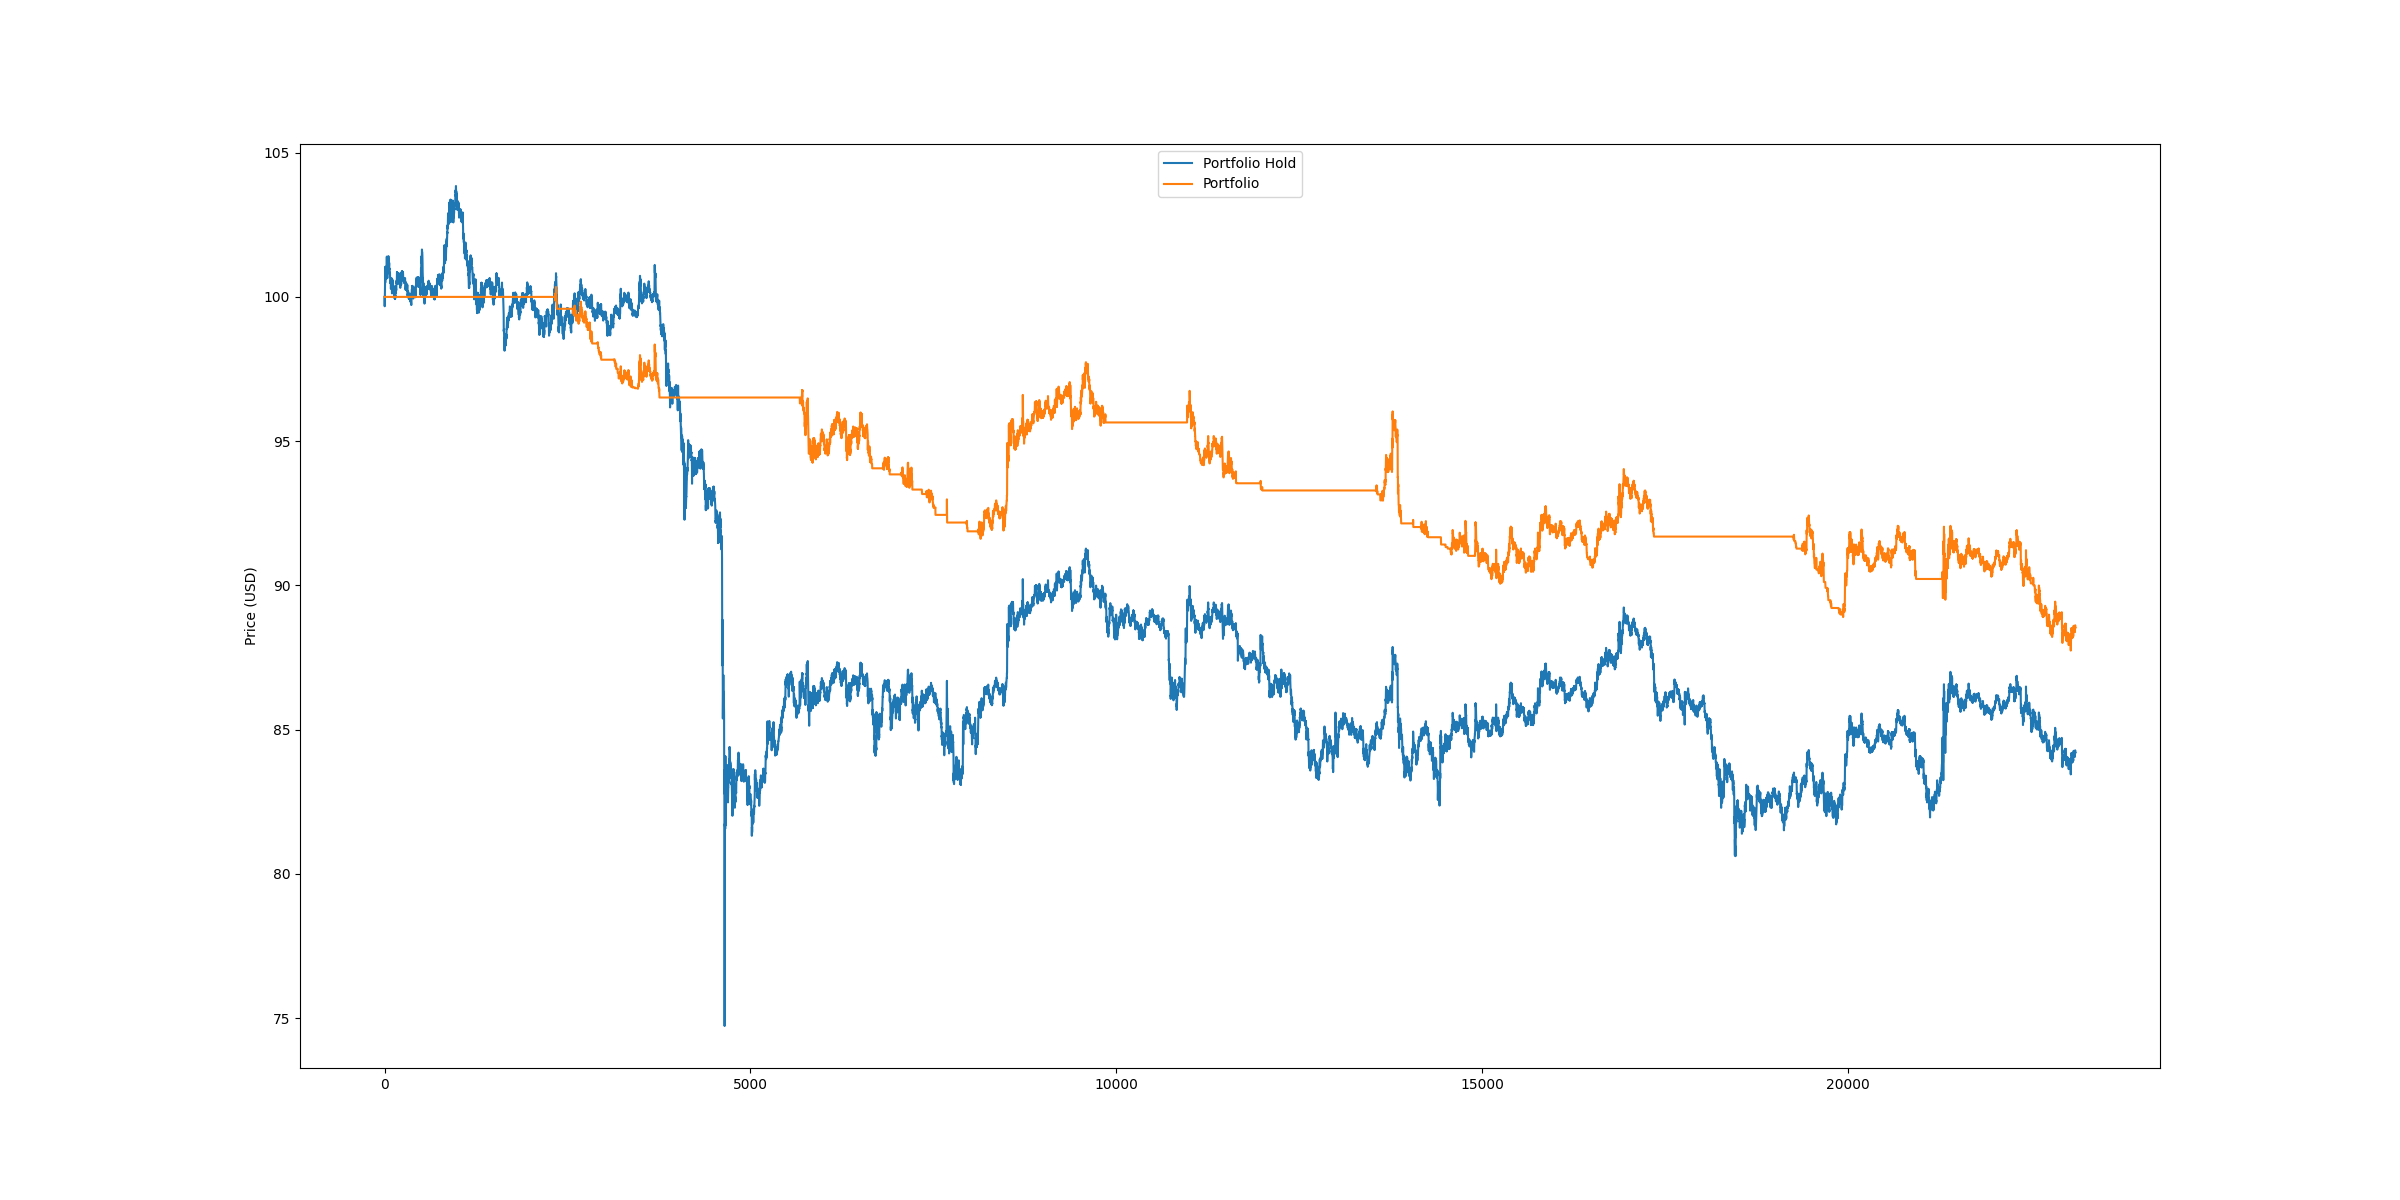
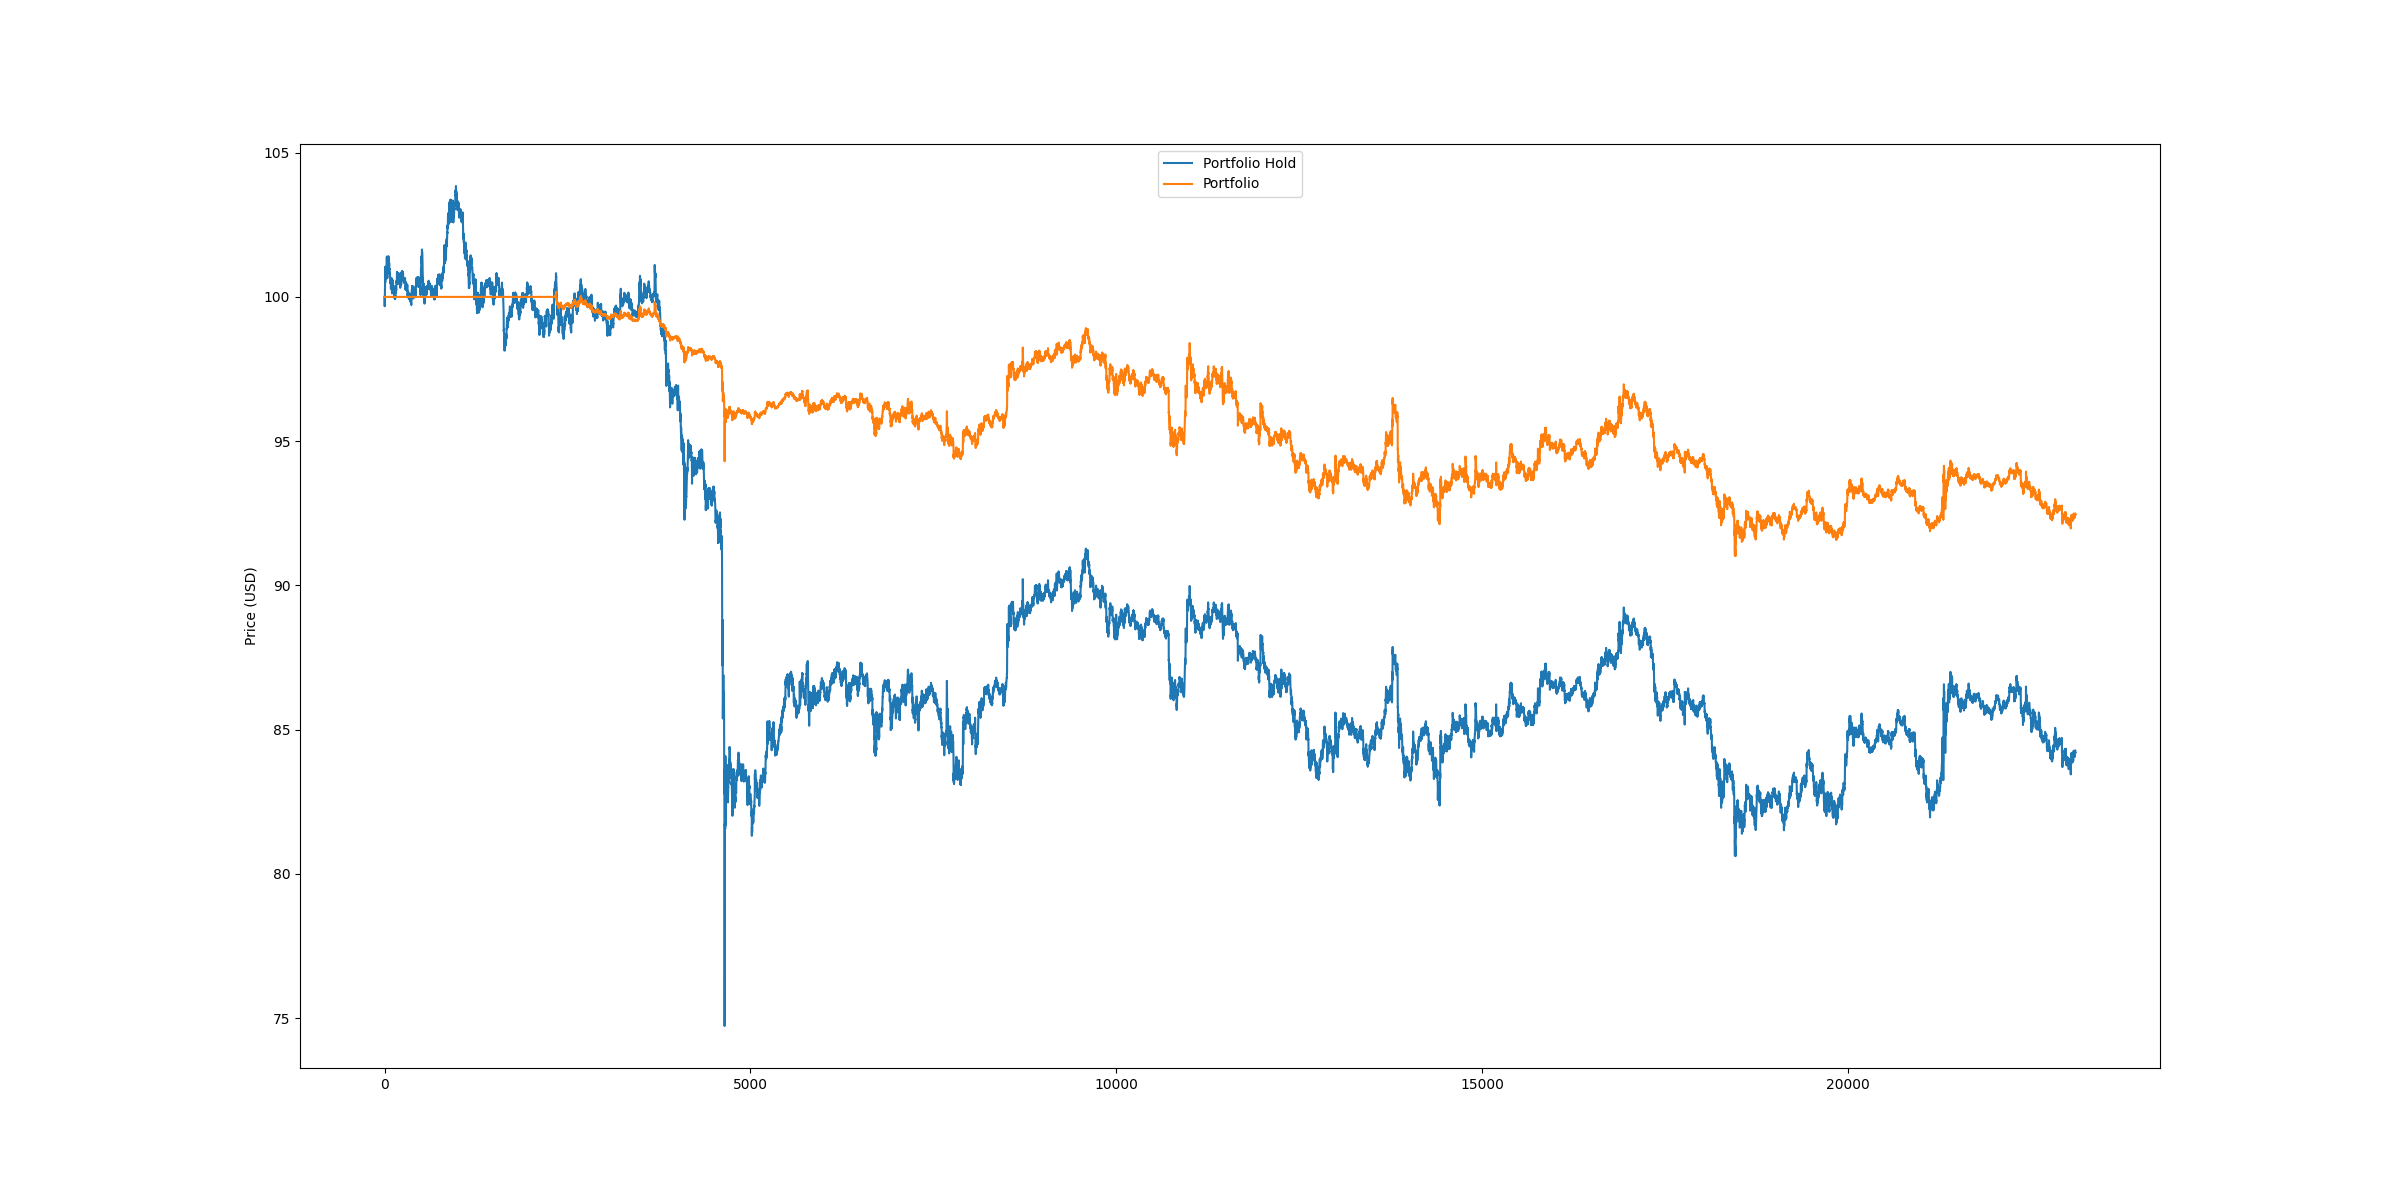
equity per trade working

diff --git a/src/backtest.py b/src/backtest.py
@@ -73,18 +73,18 @@ def run_backtest(strat, port, df):
                 port.get_fiat_quantity() - (action.quantity * price))
             port.set_coin_quantity(
                 port.get_coin_quantity() + action.quantity)
-        elif action.signal == 'SELL':
+        elif action.signal == 'SELL' and port.get_coin_quantity() >= action.quantity:
             port.set_fiat_quantity(
                 port.get_fiat_quantity() + (action.quantity * price))
             port.set_coin_quantity(
-                port.get_fiat_quantity() - action.quantity
+                port.get_coin_quantity() - action.quantity
             )
 
-        portfolio.append(port.get_value_in_fiat())
+        portfolio.append(port.get_value_in_fiat(coin_price=price))
         portfolio_hold.append(start_coin * price)
 
         print(f'price: {price} action: {action}')
-        print(f'{port.get_fiat()}: {port.get_fiat_quantity()} {port.get_coin()}: {port.get_coin_quantity()} total value ({port.get_fiat()}): {port.get_value_in_fiat()}')
+        print(f'{port.get_fiat()}: {port.get_fiat_quantity()} {port.get_coin()}: {port.get_coin_quantity()} total value ({port.get_fiat()}): {port.get_value_in_fiat(coin_price=price)}')
         print('--------------\n')
 
     percent_change = ((portfolio[-1] - start_fiat) / start_fiat) * 100

diff --git a/src/simple_mva.py b/src/simple_mva.py
@@ -35,11 +35,11 @@ class SimpleMVA(Strategy):
 
         # upward trend, price crosses above mva
         if prev_price and prev_price < mva and price > mva:
-            return Action('BUY', port.get_coin(), self.equity_per_trade * port.get_value_in_coin())
+            return Action('BUY', port.get_coin(), self.equity_per_trade * port.get_value_in_coin(coin_price=price))
 
         # downward trend, price crosses below mva
         if prev_price and prev_price > mva and price < mva:
-            return Action('SELL', port.get_coin(), self.equity_per_trade * port.get_value_in_coin())
+            return Action('SELL', port.get_coin(), self.equity_per_trade * port.get_value_in_coin(coin_price=price))
 
         return Action("HOLD", port.get_coin(), None)
 
